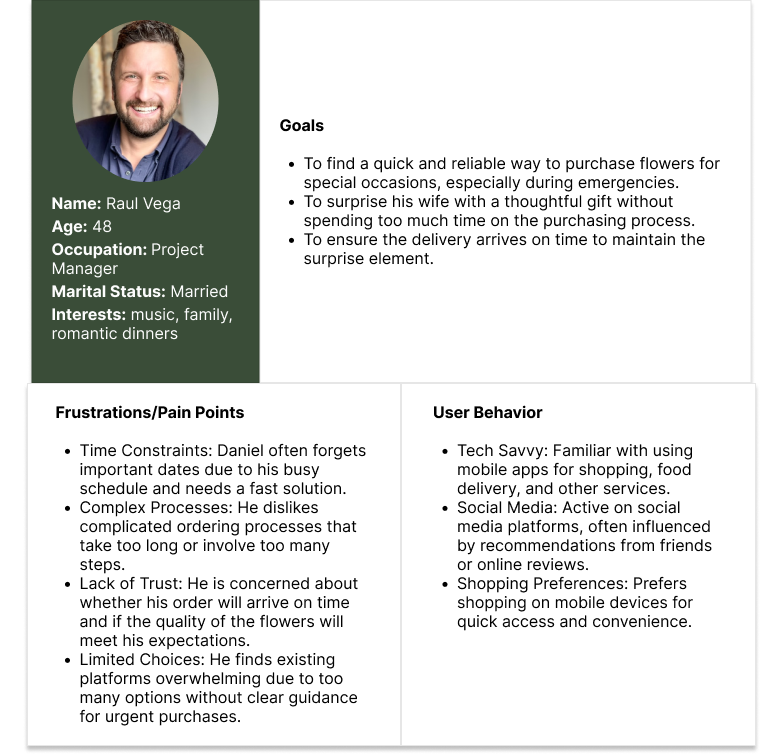
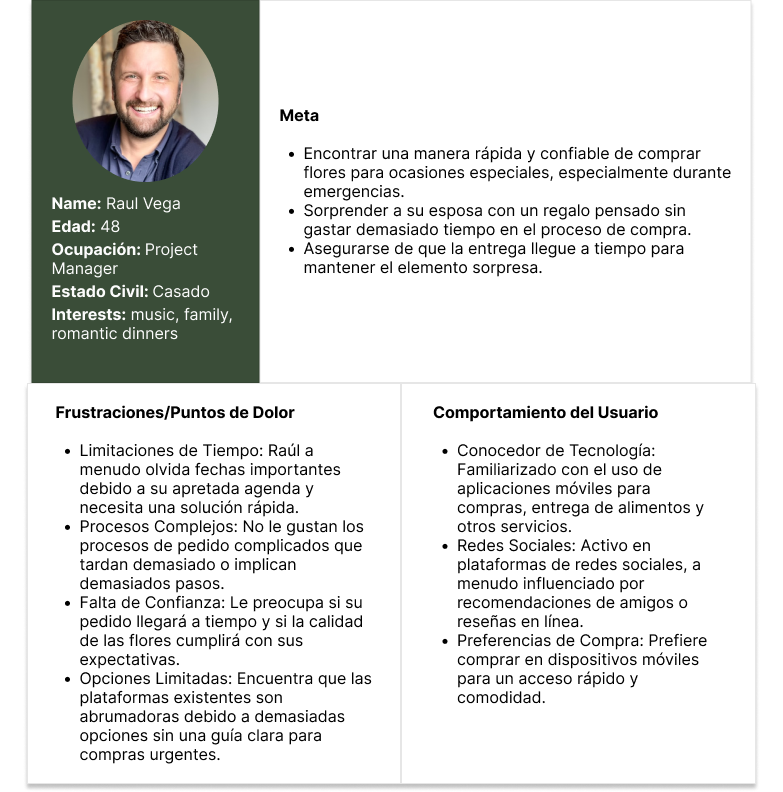
add proyecto Velvet

diff --git a/src/components/Proyects/VelvetBlosom.jsx b/src/components/Proyects/VelvetBlosom.jsx
@@ -1,4 +1,3 @@
-
 import Footer from "../Footer";
 
 const VelvetBlossom = () => {
@@ -9,76 +8,68 @@ const VelvetBlossom = () => {
                     <img className='h-96' src="/asset/Frame 1.png" alt="" />
                     </div>
         </section> 
-        <section className='flex  justify-center  items-center py-20'>
+        <section className='flex justify-center items-center py-20'>
             <div className='flex flex-col w-2/4'>
-            <h2 className='text-2xl font-bold pb-6'>Project overview            </h2>
-            <p>Velvet Blossom is an online florist designed for users who need to purchase flowers in unexpected situations, such as forgotten anniversaries or last-minute celebrations. The platform offers a quick and efficient experience with same-day delivery options. The primary users are busy individuals, typically men, who seek immediate solutions for special moments.</p>
+            <h2 className='text-2xl font-bold pb-6'>Descripción del proyecto</h2>
+            <p>Velvet Blossom es una floristería en línea diseñada para usuarios que necesitan comprar flores en situaciones inesperadas, como aniversarios olvidados o celebraciones de última hora. La plataforma ofrece una experiencia rápida y eficiente con opciones de entrega el mismo día. Los usuarios principales son personas ocupadas, típicamente hombres, que buscan soluciones inmediatas para momentos especiales.</p>
             </div>
         <img src="/asset/iPhone 13 Pro.png" alt="" />
             
         </section>
-        <section className='flex  justify-center  items-center gap-10 py-20 bg-velvet px-10 lg:gap-32'>
-            <div className='flex flex-col w-96 justify-center  items-center px-10 '>
-                <div className='flex text-background gap-2 justify-center  items-center pb-4'>
+        <section className='flex justify-center items-center gap-10 py-20 bg-velvet px-10 lg:gap-32'>
+            <div className='flex flex-col w-96 justify-center items-center px-10 '>
+                <div className='flex text-background gap-2 justify-center items-center pb-4'>
                 <img src="/asset/Vector.png" alt="" /> 
-                <h3 className='text-xl '>Problem</h3>
+                <h3 className='text-xl '>Problema</h3>
                 </div>
-                <p className= 'flex text-background justify-center  items-center '>Many users forget important dates, such as anniversaries, and need a quick solution to efficiently purchase and send flowers. Existing online florists do not always facilitate an agile process during emergencies.</p>
+                <p className='flex text-background justify-center items-center '>Muchos usuarios olvidan fechas importantes, como aniversarios, y necesitan una solución rápida para comprar y enviar flores de manera eficiente. Las floristerías en línea existentes no siempre facilitan un proceso ágil durante emergencias.</p>
             </div>
-            <div className='flex flex-col w-80 justify-center  items-center '>
-                <div className='flex text-background gap-4  w-2/4 justify-center  items-center pb-4 '>
+            <div className='flex flex-col w-80 justify-center items-center '>
+                <div className='flex text-background gap-4 w-2/4 justify-center items-center pb-4 '>
                 <img src="/asset/Vector2.png" alt="" /> 
-                <h3 className='text-xl '>Problem</h3>
+                <h3 className='text-xl '>Objetivo</h3>
                 </div>
-                <p className= 'flex text-background justify-center  items-center '>Many users forget important dates, such as anniversaries, and need a quick solution to efficiently purchase and send flowers. Existing online florists do not always facilitate an agile process during emergencies.</p>
+                <p className='flex text-background justify-center items-center '>El objetivo del proyecto era crear una plataforma de compra de flores fácil de usar que permita a los usuarios seleccionar un ramo y programar la entrega en menos de 10 minutos, especialmente en situaciones urgentes.</p>
             </div>
         </section>
-        <section className='flex  justify-center  items-center py-20'>
-              <img src="/asset/iPhone 13 Pro.png" alt="" />
-            <div className='flex flex-col w-2/4  justify-center '>
-            <h2 className='text-2xl font-bold pb-6'>Project overview            </h2>
-            <p>Velvet Blossom is an online florist designed for users who need to purchase flowers in unexpected situations, such as forgotten anniversaries or last-minute celebrations. The platform offers a quick and efficient experience with same-day delivery options. The primary users are busy individuals, typically men, who seek immediate solutions for special moments.</p>
-            </div>
-      
-            
-        </section>
+       
         <section>
-        <div className="bg-velvet text-white text-center p-10 px-20 ">
-      <h2 className="text-2xl font-bold">User Research: Pain Points</h2>
+        <div className=" text-white text-center p-10 px-20 ">
+      <h2 className="text-2xl font-bold">Investigación de usuarios: Puntos de dolor</h2>
       <div className="gap-6 justify-center mt-8 flex flex-col items-center lg:flex-row ">
-        <div className="bg-white text-[#37483c] p-6 rounded-lg shadow-md w-60">
-          <div className="text-3xl font-bold mb-2">1</div>
-          <h3 className="text-xl font-semibold mb-4">Lack of time</h3>
-          <p className="text-sm">Users felt overwhelmed by having to search through multiple options and filters during emergencies.</p>
+        <div className="text-white bg-velvet p-6 rounded-lg shadow-md w-60">
+          <div className="text-3xl font-bold mb-2 ">1</div>
+          <h3 className="text-xl font-semibold mb-4">Falta de tiempo</h3>
+          <p className="text-sm">Los usuarios se sintieron abrumados al tener que buscar entre múltiples opciones y filtros durante emergencias.</p>
         </div>
-        <div className="bg-white text-[#37483c] p-6 rounded-lg shadow-md w-60">
+        <div className="text-white bg-velvet p-6 rounded-lg shadow-md w-60">
           <div className="text-3xl font-bold mb-2">2</div>
-          <h3 className="text-xl font-semibold mb-4">Confusing navigation</h3>
-          <p className="text-sm">Many platforms do not prioritize options for fast or last-minute delivery.</p>
+          <h3 className="text-xl font-semibold mb-4">Navegación confusa</h3>
+          <p className="text-sm">Muchas plataformas no priorizan opciones para entrega rápida o de última hora.</p>
         </div>
-        <div className="bg-white text-[#37483c] p-6 rounded-lg shadow-md w-60">
+        <div className="text-white bg-velvet p-6 rounded-lg shadow-md w-60">
           <div className="text-3xl font-bold mb-2">3</div>
-          <h3 className="text-xl font-semibold mb-4">Complicated personalization</h3>
-          <p className="text-sm">Users wanted to include a personalized note but found the customization process too tedious.</p>
+          <h3 className="text-xl font-semibold mb-4">Personalización complicada</h3>
+          <p className="text-sm">Los usuarios querían incluir una nota personalizada, pero encontraron el proceso de personalización demasiado tedioso.</p>
         </div>
-        <div className="bg-white text-[#37483c] p-6 rounded-lg shadow-md w-60">
+        <div className="text-white bg-velvet p-6 rounded-lg shadow-md w-60">
           <div className="text-3xl font-bold mb-2">4</div>
-          <h3 className="text-xl font-semibold mb-4">Uncertainty about delivery</h3>
-          <p className="text-sm">Users lacked confidence that their order would arrive on time.</p>
+          <h3 className="text-xl font-semibold mb-4">Incertidumbre sobre la entrega</h3>
+          <p className="text-sm">Los usuarios carecían de confianza en que su pedido llegaría a tiempo.</p>
         </div>
       </div>
     </div>
         </section>
-        <section className='py-20 flex  flex-col justify-center items-center gap-6'>
-            <h2 className='text-2xl font-bold text-text'>User Person</h2>
-            <img src="/asset/Frame 3.png" alt="" />
+        <section className=' bg-velvet py-20 flex flex-col justify-center items-center gap-6'>
+            <h2 className='text-2xl font-bold text-white'>User Persona</h2>
+            <img src="/public/asset/Frame 3.png" alt="" />
         </section>
-        <section className='py-20 flex  flex-col justify-center items-center gap-6 px-32 bg-velvet'>
-        <h2 className='text-2xl font-bold text-background'>User Person</h2>
-        <img src="/asset/Frame 34.png" alt="" />
+        <section className=' py-20 flex flex-col justify-center items-center gap-6 px-32 '>
+        <h2 className='text-2xl font-bold '>Flujo del Usuario</h2>
+        <img src="/public/asset/Frame 34.png" alt="" />
         </section>
-        <section className="flex flex-col justify-center items-center py-20">
-          <h2 className="text-2xl font-bold text-text pb-6">Wireframe</h2>
+        <section className="flex flex-col justify-center items-center py-20 bg-velvet">
+          <h2 className="text-2xl font-bold text-white pb-6">Wireframe</h2>
           <img className="" src="/asset/wireframe-baja.png" alt="" />
         </section>
         <section className="flex flex-col justify-center items-center py-20">
@@ -87,10 +78,6 @@ const VelvetBlossom = () => {
         </section>
         <Footer/>  
     </>
-       
-        
-    
-       
     );
 };
 

diff --git a/src/components/Navbar.jsx b/src/components/Navbar.jsx
@@ -25,7 +25,7 @@ const Navbar = () => {
   const openWhatsapp = () => window.open(whatsapp, '_blank');
 
   return (
-    <nav id="navbar" className="flex items-center justify-between py-4 px-8 lg:px-0 max-w-screen-md mx-auto ">
+    <nav id="navbar" className="flex items-center justify-between py-4 px-8 lg:px-0 max-w-screen-md mx-auto text-lg">
       <NavLink to="/" className={({ isActive }) => (isActive ? 'text-primary' : 'text-text')}>
       <img className="w-40 h-auto" src="/asset/logo.png" alt="logo Yeraldin" />
 
@@ -51,10 +51,10 @@ const Navbar = () => {
       <ul
         className={`${
           menuOpen ? 'flex' : 'hidden'
-        } flex-col absolute top-10 w-80  text-center rounded-b-md py-6 bg-white shadow-md z-20 md:left-52 md:ml-36 lg:static lg:flex lg:flex-row lg:items-center lg:gap-2 lg:bg-transparent lg:shadow-none lg:w-auto`}
+        } flex-col absolute top-16 w-80  text-center rounded-b-md py-6 bg-white shadow-md z-20 md:left-52 md:ml-36 lg:static lg:flex lg:flex-row lg:items-center lg:gap-2 lg:bg-transparent lg:shadow-none lg:w-auto`}
       >
         <li className="text-text hover:text-primary transition duration-300 py-2 px-2">
-          <NavLink to="/about" className={({ isActive }) => (isActive ? 'text-primary' : 'text-text')}>
+          <NavLink to="/about" className={({ isActive }) => (isActive ? 'text-primary' : 'text-text ')}>
             Acerca de mí
           </NavLink>
         </li>

diff --git a/src/pages/UxProject.jsx b/src/pages/UxProject.jsx
@@ -2,18 +2,18 @@ import { Link } from 'react-router-dom';
 
 const UxProject = () => {
     const projects = [
-        //{
-           // title: "App Velvet Blossom",
-          //  imgSrc: "/asset/Frame 1.png",
-          //  altText: "UX/UI Projects",
-          //  description: "Descripción de la app Velvet Blossom",
-          //  projectLink: "/velvet-blossom" 
-      //  },
+        {
+            title: "App Velvet Blossom",
+            imgSrc: "/asset/Frame 1.png",
+            altText: "UX/UI Projects",
+            description: "Diseño de Aplicación de floristeria ",
+            projectLink: "/velvet-blossom" 
+        },
         {
             title: "Web Shaik Asesores",
             imgSrc: "/asset/Cover.png",
             altText: "UX/UI Projects",
-            description: "Descripción de la app Velvet Blossom",
+            description: "Diseño de Página web de empresa de asesoría financiera ",
             projectLink: "/shaik-asesores" 
         },
        
